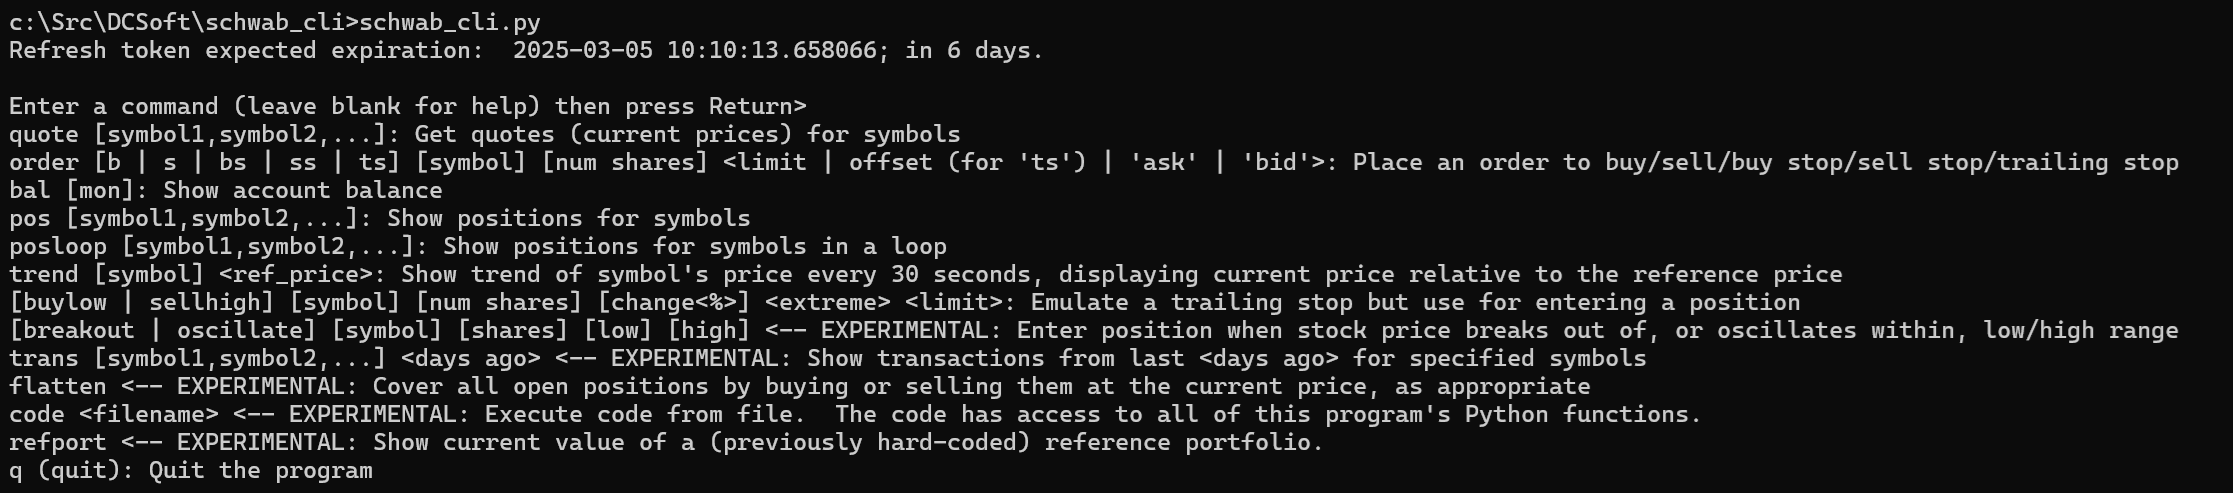
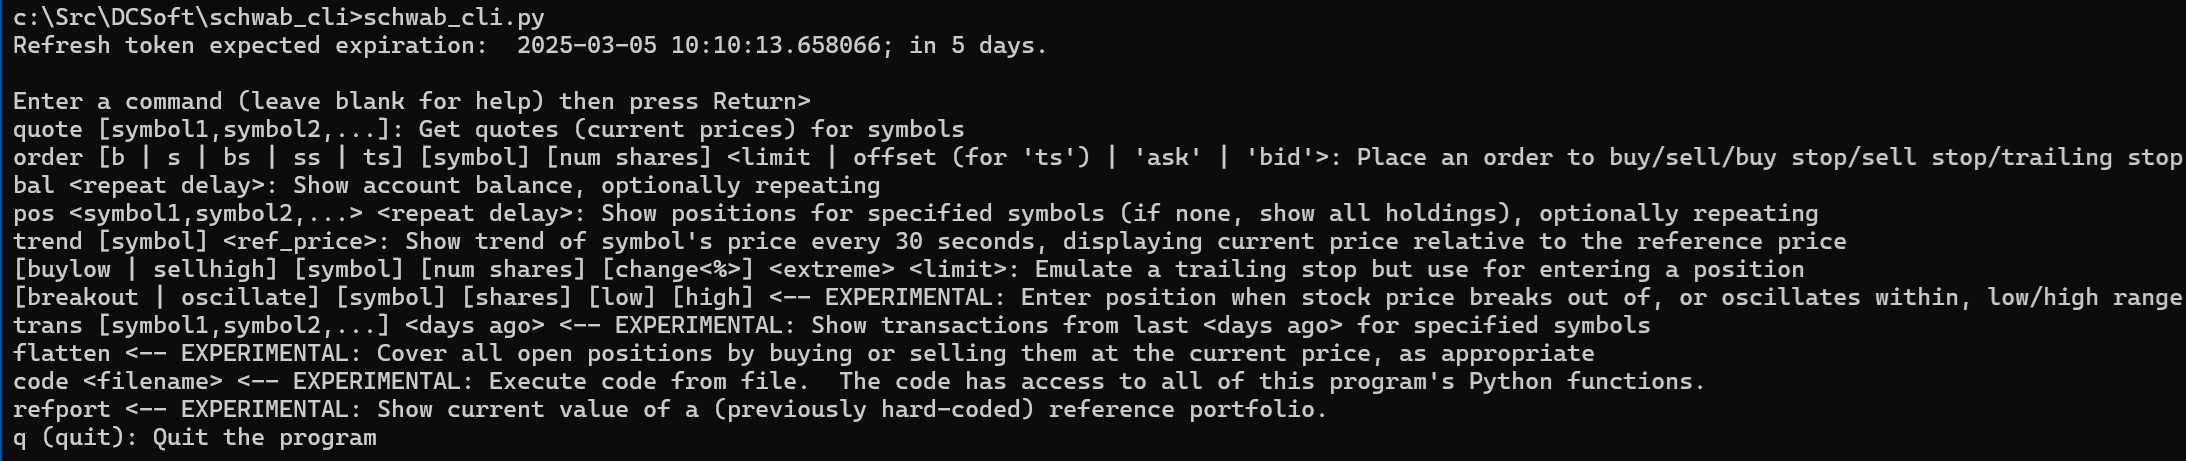
Update README with balance tracking and position details and related screenshot.

Changed region(s): [[0.0, 0.1822, 1.0, 0.9718], [0.0, 0.0, 0.4977, 0.1215]]

diff --git a/README.md b/README.md
@@ -54,23 +54,33 @@ order [b | s | bs | ss | ts] [symbol] [num shares] <limit | offset | 'ask' | 'bi
 `ss` is "sell stop" <br>
 `ts` is "trailing stop"
 
-#### Position
+#### Account balance and Position
 
-pos [symbol1,symbol2,...]<br>
-posloop [symbol1,symbol2,...] <-- repeats every 30 seconds
+bal \<repeat delay><br>
 
-> To see current position on Reddit, type<br>
-> \> pos rddt<br>
-RDDT: 30 @ 176.566666666667 (201.09); gain/loss: 735.70
+> To see account balance every 10 seconds, type<br>
+> \> bal 10<br>
+5:47:03 PM: \$3,471.31<br>
+5:47:13 PM: \$3,471.38<br>
+5:47:23 PM: \$3,471.78<br>
+
+pos \<symbol1,symbol2,...>\<repeat delay><br>
+
+> To see current position on Reddit and Nvidia, type<br>
+> \> pos rddt,nvda<br>
+RDDT: 30 @ 176.566666666667 (201.09); gain/loss: 735.70<br>
+NVDA: 1 @ 129.5 (121.15); gain/loss: -8.35<br>
+\----<br>
+Total gain/loss: 727.35
 
 #### Trend
 
 trend [symbol] <ref price>
 
 > To get a quote for Nvidia every 30 seconds and compare it to a reference price in units of 0.01%<br>
-> \> trend nvda 131.58<br>
+> \> trend nvda 131.588<br>
 11:04:07: Computing trend for NVDA; ref price: 131.588; updates every 30 seconds; press ^C to stop<br>
-11:04:07: NVDA: 129.69 (-146.35); Summary: -146.35 <-- Price changed (129.69 - 131.588) * 10K<br> 
+11:04:07: NVDA: 129.69 (-146.35); Summary: -146.35 <-- Price changed (129.69 - 131.588) / 129.69 * 10K<br> 
 11:04:37: NVDA: 129.5402 (-11.56); Summary: -157.91<br>
 11:05:07: NVDA: 129.4698 (-5.44); Summary: -163.35<br>
 
